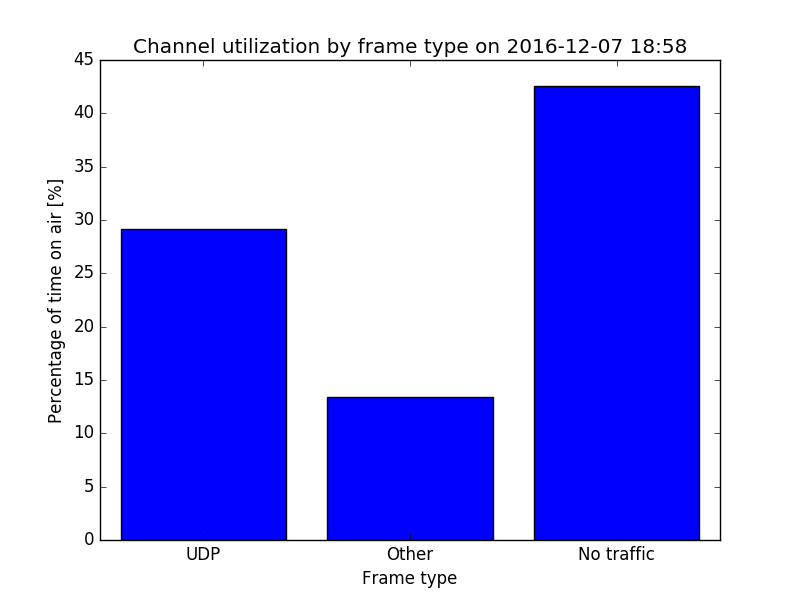
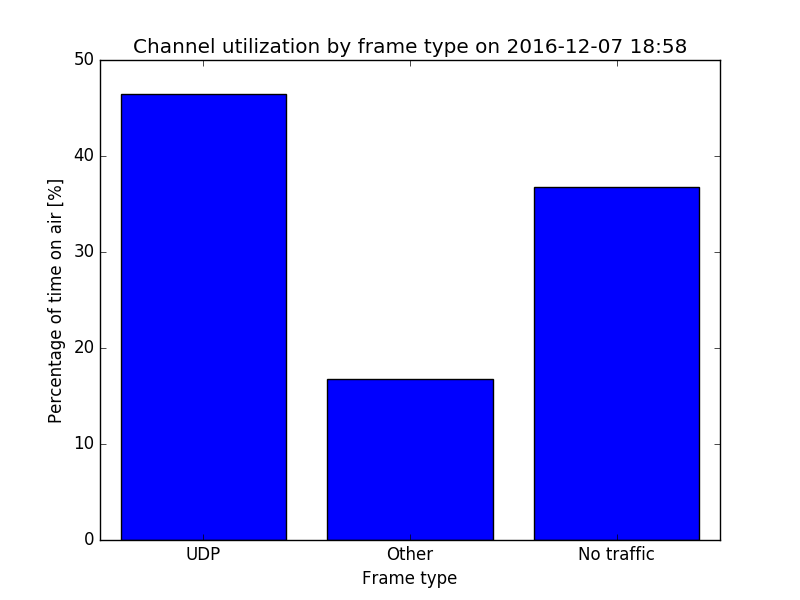
Fixed a mistake calculating no traffic percentage

diff --git a/group06_hw06/q2/scripts/hw06q2.py b/group06_hw06/q2/scripts/hw06q2.py
@@ -191,7 +191,7 @@ def plot_bar_utilization_by_type(filepath):
 
             transmit_time = t_phy_overhead + t_ofdm + (total_len - radiotap_len) / rate
 
-            if "udp" in protocols:
+            if "udp" in protocols and "data" in protocols:
                 if first_udp_epoch == 0: first_udp_epoch = epoch
                 last_udp_epoch = epoch
 
@@ -212,7 +212,7 @@ def plot_bar_utilization_by_type(filepath):
     timeframe = (last_udp_epoch - first_udp_epoch) * 1000000.0    # Time frame in us
     udp_percent = udp_time / timeframe * 100.0
     other_percent = non_udp_in_udp_timeframe / timeframe * 100.0
-    no_traffic_percent = (udp_time + non_udp_in_udp_timeframe) / timeframe * 100.0
+    no_traffic_percent = (timeframe - (udp_time + non_udp_in_udp_timeframe)) / timeframe * 100.0
     labels = ["UDP", "Other", "No traffic"]
     values  = [udp_percent, other_percent, no_traffic_percent]
 
